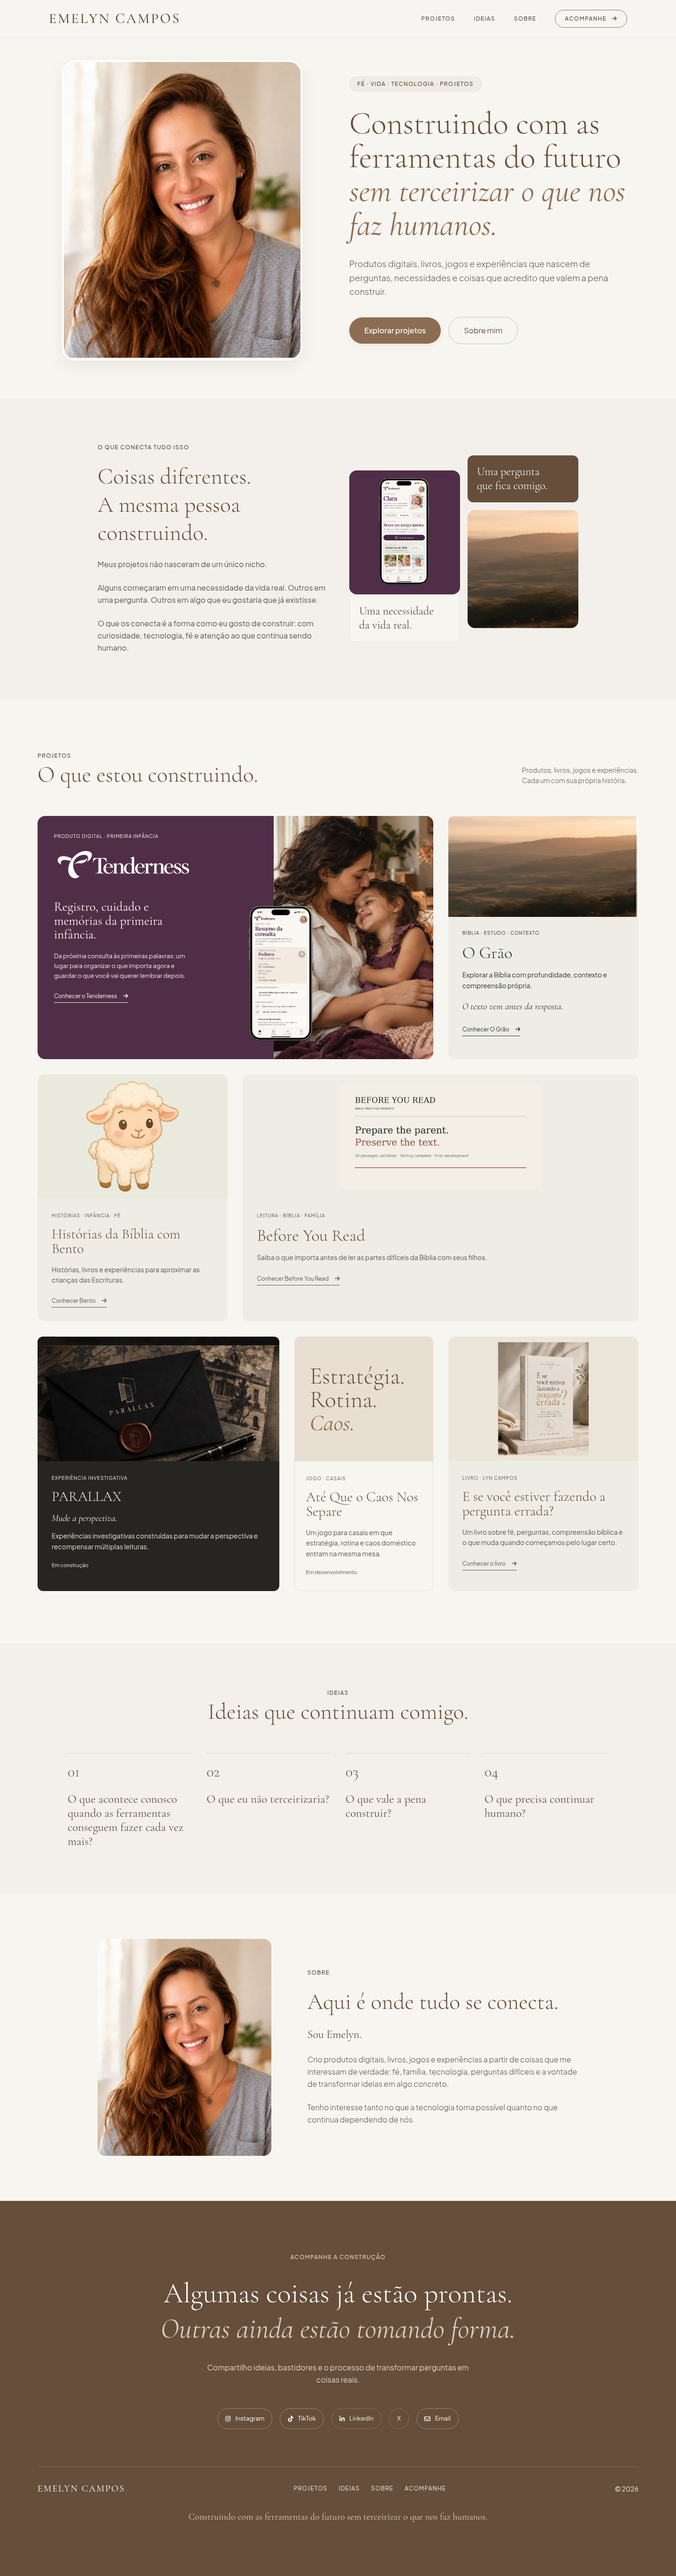
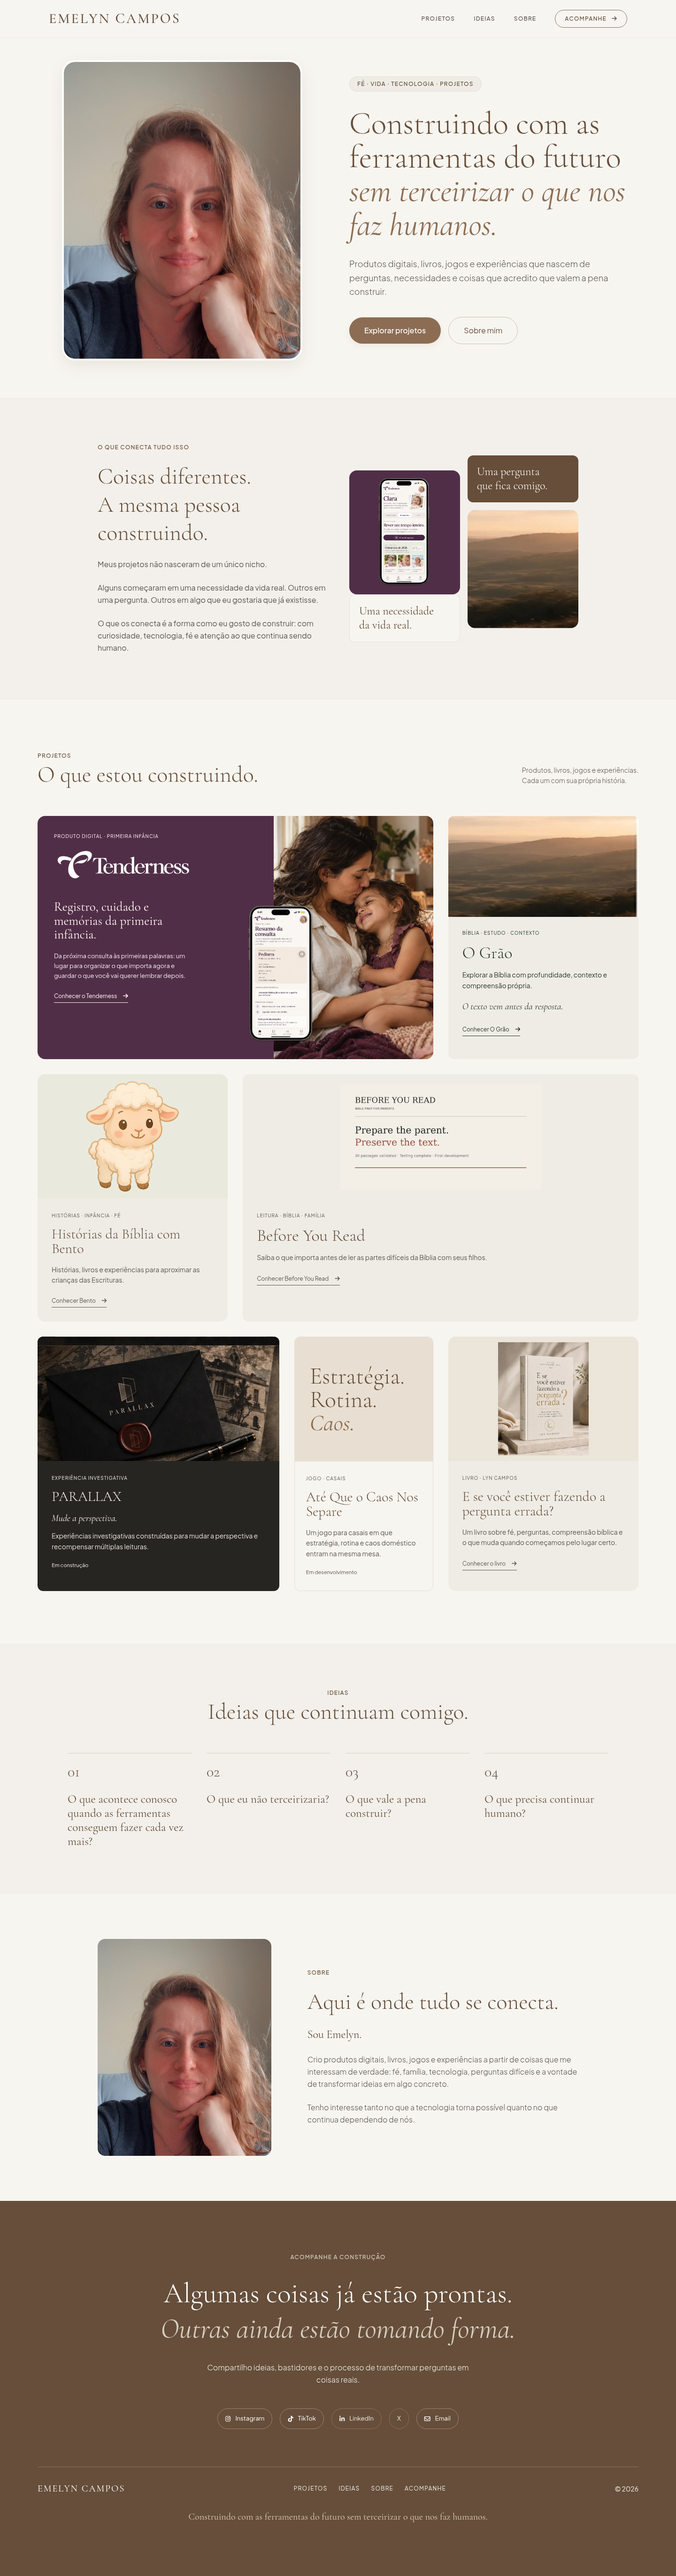
Use supplied Emelyn portrait in preview

Changed region(s): [[0.0938, 0.0, 0.4688, 0.1558], [0.125, 0.7479, 0.4062, 0.8414]]

diff --git a/home-preview/index.html b/home-preview/index.html
@@ -131,10 +131,10 @@
               class="portrait-frame relative w-full max-w-md lg:max-w-lg aspect-[4/5] rounded-[1.75rem] overflow-hidden border-4 border-white/80"
             >
               <img
-                src="/assets/emelyn.webp"
-                width="900"
-                height="1125"
-                alt="Emelyn Campos, sorrindo em seu retrato pessoal."
+                src="/home-preview/assets/emelyn-retrato.jpg"
+                width="720"
+                height="1280"
+                alt="Emelyn Campos, com a mão apoiada sob o rosto."
                 class="w-full h-full object-cover transition-transform duration-700 hover:scale-[1.03]"
                 fetchpriority="high"
                 decoding="async"
@@ -583,9 +583,9 @@
             class="about-portrait md:col-span-5 rounded-2xl overflow-hidden"
           >
             <img
-              src="/assets/emelyn.webp"
-              width="900"
-              height="1125"
+              src="/home-preview/assets/emelyn-retrato.jpg"
+              width="720"
+              height="1280"
               alt="Retrato pessoal de Emelyn Campos."
               class="w-full h-full object-cover"
               loading="lazy"

diff --git a/home-preview/QA.md b/home-preview/QA.md
@@ -7,7 +7,7 @@ Branch `home-editorial-v2`, rota `/home-preview/`. Base de design e implementaç
 - Paleta original: pergaminho #F7F5F0, terroso #8C6D53, terrosoDark #664E3A, creme #EFECE6, cinzaTexto #5A5652 e suave #D8CEBF. Verde #28372D reservado a O Grão.
 - Google Fonts Cormorant Garamond (300/400/500 e itálico 400) e Plus Jakarta Sans (300/400/500/600), mantendo a relação serif/sans do HTML-base.
 - Cabeçalho fixo leve, menu desktop discreto, CTA contornado e menu fullscreen no mobile.
-- Hero de duas colunas, retrato 4:5 com borda clara, título serifado grande com trecho itálico/terroso e dois CTAs. A foto real `assets/emelyn.webp` mantém a proporção original sem cortar o rosto. Não há mosaico ou texto sobre a fotografia.
+- Hero de duas colunas, retrato 4:5 com borda clara, título serifado grande com trecho itálico/terroso e dois CTAs. A foto real enviada na atualização está em `home-preview/assets/emelyn-retrato.jpg`, preservada sem edição. Hero e Sobre usam enquadramento 4:5, mantendo o rosto visível; o retrato oficial anterior permanece intacto. Não há mosaico ou texto sobre a fotografia.
 - Bloco de conexão em duas colunas, com texto e fragmentos assimétricos; grid de projetos em 12 colunas, primeira linha 8/4 e segunda 4/8, continuando em 5/3/4. Mobile linear na ordem especificada.
 - Ideias em quatro colunas, agora com números e linhas; Sobre com foto/texto; encerramento com fundo terrosoDark, redes e rodapé.
 
